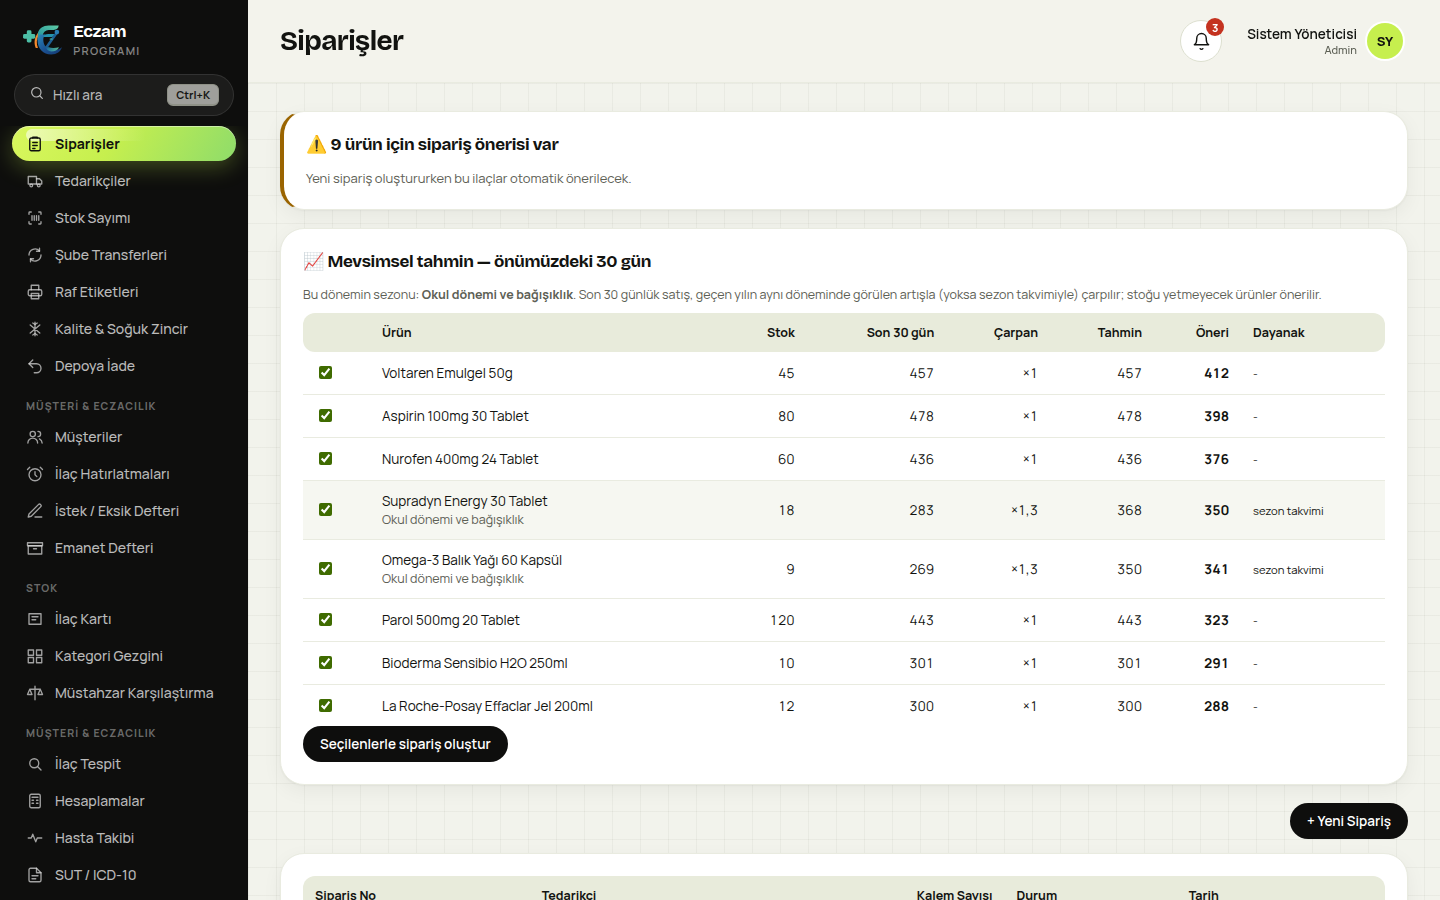
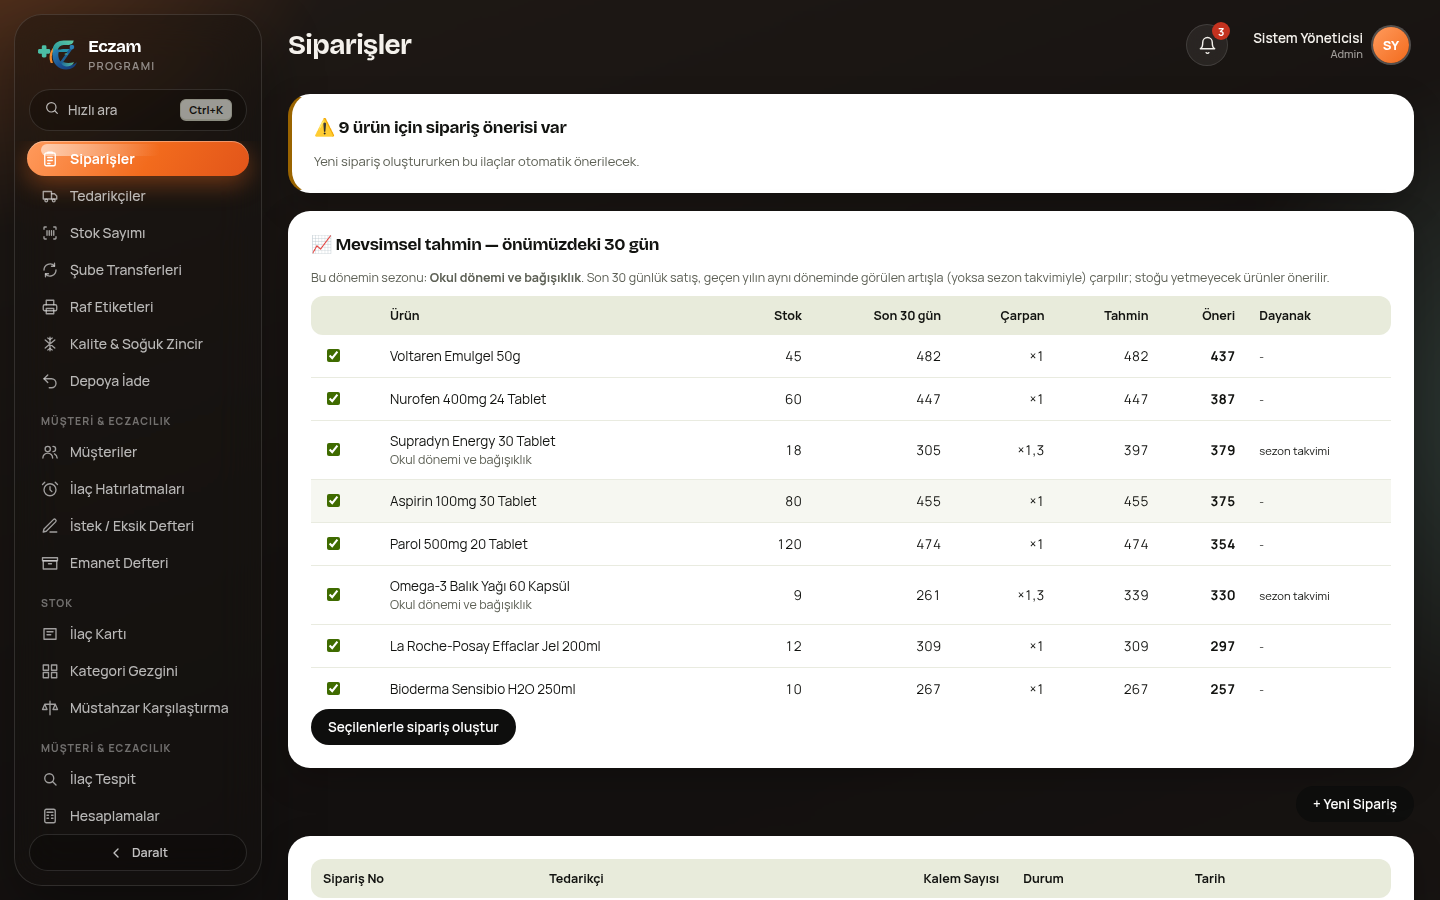
Uygulama geneli Cam tasarım (yan menü dahil) (#38)

diff --git a/web/public/css/cam.css b/web/public/css/cam.css
@@ -1,0 +1,162 @@
+/* "Cam" tasarim (varsayilan): koyu, bulanik zemin; buzlu cam yan menu ve ust cubuk; acik kartlar; turuncu vurgu.
+   html[data-tasarim="cam"] ile acilir; Gorunum Ayarlari'ndan "Klasik" secilince eski gorunume donulur.
+   Kartlar ve pencereler kendi rengini tasir; zemin uzerindeki yazilar acik renk olur. */
+:root[data-tasarim="cam"] {
+  --cam-zemin: #1b1714;
+  --cam-yazi: #f4f1ec;
+  --cam-soluk: rgba(244, 241, 236, 0.62);
+  --cam: rgba(255, 255, 255, 0.07);
+  --cam-hover: rgba(255, 255, 255, 0.12);
+  --cam-kenar: rgba(255, 255, 255, 0.12);
+  --turuncu: #f26b1d;
+  --turuncu-acik: #ff9a5c;
+  --focus-ring: 0 0 0 3px rgba(242, 107, 29, 0.45);
+  --radius-lg: 22px;
+  --shadow-md: 0 10px 30px rgba(0, 0, 0, 0.18);
+  --shadow-lg: 0 24px 60px rgba(0, 0, 0, 0.38), 0 6px 16px rgba(0, 0, 0, 0.2);
+}
+
+/* ---- Zemin: sabit, yavasca kayan sicak isiklar ---- */
+:root[data-tasarim="cam"] body { background: var(--cam-zemin); }
+:root[data-tasarim="cam"] body::before {
+  content: ''; position: fixed; inset: -20vmax; z-index: -1; pointer-events: none;
+  background:
+    radial-gradient(38vmax 38vmax at 12% 8%, rgba(160, 82, 36, 0.62), transparent 70%),
+    radial-gradient(34vmax 34vmax at 88% 46%, rgba(58, 78, 72, 0.7), transparent 70%),
+    radial-gradient(30vmax 30vmax at 48% 108%, rgba(120, 62, 28, 0.55), transparent 70%),
+    linear-gradient(160deg, #241d18, #141110 60%, #1b1714);
+  filter: blur(10px);
+  animation: cam-zemin 26s ease-in-out infinite alternate;
+}
+@keyframes cam-zemin { to { transform: translate3d(4vmax, 3vmax, 0) scale(1.06); } }
+:root[data-tasarim="cam"] .app-shell { gap: 0; }
+:root[data-tasarim="cam"] .main { background: transparent; }
+:root[data-tasarim="cam"] .content { background-image: none; color: var(--cam-yazi); padding: 18px 26px 40px; }
+
+/* Acik yuzeyler kendi yazi rengini tasir (zemindeki acik yazi icerilere sizmasin) */
+:root[data-tasarim="cam"] :is(.card, .stat-tile, .modal, .kullanici-menu, .zil-panel, .duyuru-pano, .oneri-ozet, .gun-sonu > div,
+  table, .toast, .cp-kutu, .cp-panel, .empty-state.card, .pos-layout > *, .sekme, .segment-cip, .secim-kart, .bekleyen-liste, .tablo-kaydir) { color: var(--text); }
+:root[data-tasarim="cam"] .card {
+  border: 1px solid rgba(255, 255, 255, 0.5); border-radius: var(--radius-lg);
+  box-shadow: 0 12px 34px rgba(0, 0, 0, 0.22);
+  animation: cam-gir 420ms cubic-bezier(0.2, 0.8, 0.2, 1) both;
+}
+:root[data-tasarim="cam"][data-theme="dark"] .card { border-color: rgba(255, 255, 255, 0.08); background: rgba(27, 28, 25, 0.82); backdrop-filter: blur(18px); -webkit-backdrop-filter: blur(18px); }
+:root[data-tasarim="cam"] .content > *:nth-child(2) { animation-delay: 50ms; }
+:root[data-tasarim="cam"] .content > *:nth-child(3) { animation-delay: 100ms; }
+:root[data-tasarim="cam"] .content > *:nth-child(4) { animation-delay: 150ms; }
+:root[data-tasarim="cam"] .content > *:nth-child(n + 5) { animation-delay: 200ms; }
+@keyframes cam-gir { from { opacity: 0; transform: translateY(10px); } }
+:root[data-tasarim="cam"] .stat-tile { transition: transform 220ms cubic-bezier(0.2, 0.8, 0.2, 1), box-shadow 220ms; }
+:root[data-tasarim="cam"] .stat-tile:hover { transform: translateY(-4px); box-shadow: 0 16px 36px rgba(0, 0, 0, 0.26); }
+
+/* Zemin uzerindeki yardimci yazilar */
+:root[data-tasarim="cam"] .content > :is(p, h2, h3, h4, label, small, .form-ipucu),
+:root[data-tasarim="cam"] .content > :not(.card) > :is(.form-ipucu, small, label) { color: var(--cam-soluk); }
+:root[data-tasarim="cam"] .content > .empty-state { color: var(--cam-soluk); }
+:root[data-tasarim="cam"] .content a:not(.card a):not([class]) { color: var(--turuncu-acik); }
+
+/* ---- Yan menu: buzlu cam, yuvarlak, kenardan bosluklu ---- */
+:root[data-tasarim="cam"] .sidebar {
+  margin: 14px 0 14px 14px; height: calc(100vh - 28px); top: 14px; border-radius: 28px;
+  background: rgba(20, 17, 15, 0.42); border: 1px solid var(--cam-kenar);
+  backdrop-filter: blur(22px) saturate(1.15); -webkit-backdrop-filter: blur(22px) saturate(1.15);
+  box-shadow: 0 24px 60px rgba(0, 0, 0, 0.35); overflow: hidden;
+  transition: width 320ms cubic-bezier(0.2, 0.8, 0.2, 1);
+}
+:root[data-tasarim="cam"] .sidebar nav { scrollbar-color: rgba(255, 255, 255, 0.18) transparent; }
+:root[data-tasarim="cam"] .cp-ac { background: rgba(0, 0, 0, 0.25); border-color: var(--cam-kenar); }
+:root[data-tasarim="cam"] .sidebar a { color: rgba(255, 255, 255, 0.7); transition: background 160ms, color 160ms, transform 160ms; }
+:root[data-tasarim="cam"] .sidebar a:hover { background: var(--cam-hover); color: #fff; transform: translateX(2px); }
+:root[data-tasarim="cam"] .sidebar a.active { background: var(--turuncu); color: #fff; }
+:root[data-tasarim="cam"] .sidebar a.active svg { color: #fff; }
+@media (min-width: 801px) {
+  :root[data-tasarim="cam"] .nav-gosterge {
+    background: linear-gradient(120deg, #ff9a5c 0%, #f26b1d 55%, #e2551a 100%);
+    box-shadow: 0 8px 24px rgba(242, 107, 29, 0.4), inset 0 1px 0 rgba(255, 255, 255, 0.35);
+  }
+  :root[data-tasarim="cam"] .sidebar a.active, :root[data-tasarim="cam"] .sidebar a.active:hover { background: transparent; color: #fff; transform: none; }
+  :root[data-tasarim="cam"] .sidebar a.active svg { color: #fff; }
+}
+
+/* Daraltma dugmesi (yalnizca cam tasarimda, masaustunde) */
+.kenar-btn { display: none; }
+@media (min-width: 801px) {
+  :root[data-tasarim="cam"] .kenar-btn {
+    display: flex; align-items: center; justify-content: center; gap: 8px; margin: 8px 14px 14px; padding: 9px 12px;
+    border-radius: 999px; border: 1px solid var(--cam-kenar); background: rgba(0, 0, 0, 0.22); color: rgba(255, 255, 255, 0.75);
+    font: inherit; font-size: 12.5px; font-weight: 600; cursor: pointer; box-shadow: none; width: auto;
+  }
+  :root[data-tasarim="cam"] .kenar-btn:hover { background: var(--cam-hover); color: #fff; }
+  :root[data-tasarim="cam"] .kenar-btn svg { width: 16px; height: 16px; transition: transform 300ms; }
+
+  /* Dar menu: yalnizca simgeler (referanstaki gibi), ustune gelince ad gorunur */
+  :root[data-tasarim="cam"][data-kenar="dar"] .sidebar { width: 78px; }
+  :root[data-tasarim="cam"][data-kenar="dar"] .sidebar-marka { justify-content: center; padding: 20px 0 14px; }
+  :root[data-tasarim="cam"][data-kenar="dar"] .sidebar-marka h2,
+  :root[data-tasarim="cam"][data-kenar="dar"] .nav-grup,
+  :root[data-tasarim="cam"][data-kenar="dar"] .sidebar a span,
+  :root[data-tasarim="cam"][data-kenar="dar"] .cp-ac > :not(#cp-ikon),
+  :root[data-tasarim="cam"][data-kenar="dar"] .kenar-btn span { display: none; }
+  :root[data-tasarim="cam"][data-kenar="dar"] .cp-ac { margin: 0 14px 10px; padding: 10px; justify-content: center; font-size: 0; }
+  :root[data-tasarim="cam"][data-kenar="dar"] .sidebar nav { padding: 4px 10px 12px; }
+  :root[data-tasarim="cam"][data-kenar="dar"] .sidebar a { justify-content: center; padding: 11px 0; }
+  :root[data-tasarim="cam"][data-kenar="dar"] .sidebar a svg { width: 20px; height: 20px; }
+  :root[data-tasarim="cam"][data-kenar="dar"] .nav-gosterge { left: 10px; right: 10px; }
+  :root[data-tasarim="cam"][data-kenar="dar"] .kenar-btn { margin: 8px 14px 14px; padding: 10px; }
+  :root[data-tasarim="cam"][data-kenar="dar"] .kenar-btn svg { transform: rotate(180deg); }
+}
+
+/* ---- Ust cubuk: seffaf, acik yazili ---- */
+:root[data-tasarim="cam"] .topbar { background: transparent; border-bottom: 0; backdrop-filter: none; padding: 22px 26px 8px; }
+:root[data-tasarim="cam"] .topbar h1 { color: var(--cam-yazi); letter-spacing: -0.02em; }
+:root[data-tasarim="cam"] .topbar .ikon-btn { background: var(--cam); color: var(--cam-yazi); border-color: var(--cam-kenar); backdrop-filter: blur(12px); -webkit-backdrop-filter: blur(12px); }
+:root[data-tasarim="cam"] .topbar .ikon-btn:hover { background: var(--cam-hover); }
+:root[data-tasarim="cam"] .kullanici-cip { color: var(--cam-yazi); }
+:root[data-tasarim="cam"] .kullanici-cip .rol { color: var(--cam-soluk); }
+:root[data-tasarim="cam"] .kullanici-cip:hover { background: var(--cam); border-color: var(--cam-kenar); }
+:root[data-tasarim="cam"] .avatar { background: linear-gradient(135deg, var(--turuncu-acik), var(--turuncu)); color: #fff; box-shadow: 0 0 0 2px rgba(255, 255, 255, 0.25); }
+
+/* ---- Pencereler ve aciklir paneller ---- */
+:root[data-tasarim="cam"] .modal-backdrop { background: rgba(12, 10, 9, 0.55); backdrop-filter: blur(6px); -webkit-backdrop-filter: blur(6px); }
+:root[data-tasarim="cam"] .modal { border-radius: 24px; animation: cam-pencere 260ms cubic-bezier(0.2, 0.8, 0.2, 1) both; }
+@keyframes cam-pencere { from { opacity: 0; transform: translateY(12px) scale(0.98); } }
+
+/* ---- Gosterge (ana sayfa) cam tasarimda zeminle butunlesir ---- */
+:root[data-tasarim="cam"] .gst { background: transparent; padding: 0; min-height: 0; overflow: visible; border-radius: 0; }
+:root[data-tasarim="cam"] .gst-zemin { display: none; }
+
+/* ---- Telefon: cekmece menu ve alt cubuk camdan ---- */
+@media (max-width: 800px) {
+  :root[data-tasarim="cam"] .sidebar { margin: 0; top: 0; height: auto; border-radius: 0 26px 26px 0; background: rgba(20, 17, 15, 0.86); }
+  :root[data-tasarim="cam"] .topbar { padding: 12px 14px 6px; }
+  :root[data-tasarim="cam"] .content { padding: 10px 12px 104px; }
+  :root[data-tasarim="cam"] .alt-cubuk { background: rgba(20, 17, 15, 0.72); border: 1px solid var(--cam-kenar); backdrop-filter: blur(18px); -webkit-backdrop-filter: blur(18px); }
+  :root[data-tasarim="cam"] .alt-cubuk a, :root[data-tasarim="cam"] .alt-cubuk button { background: rgba(255, 255, 255, 0.1); }
+  :root[data-tasarim="cam"] .alt-cubuk a.aktif { background: var(--turuncu); color: #fff; }
+}
+
+@media (prefers-reduced-motion: reduce) {
+  :root[data-tasarim="cam"] body::before, :root[data-tasarim="cam"] .card, :root[data-tasarim="cam"] .modal { animation: none; }
+}
+@media print {
+  :root[data-tasarim="cam"] body { background: #fff; }
+  :root[data-tasarim="cam"] body::before { display: none; }
+}
+
+/* ---- Giris ekrani ---- */
+:root[data-tasarim="cam"] .login-wrap { background: transparent; }
+:root[data-tasarim="cam"] .login-card {
+  border: 1px solid rgba(255, 255, 255, 0.5); border-radius: 28px; box-shadow: 0 30px 80px rgba(0, 0, 0, 0.45);
+  animation: cam-pencere 420ms cubic-bezier(0.2, 0.8, 0.2, 1) both;
+}
+:root[data-tasarim="cam"][data-theme="dark"] .login-card { border-color: rgba(255, 255, 255, 0.1); background: rgba(27, 28, 25, 0.85); backdrop-filter: blur(20px); -webkit-backdrop-filter: blur(20px); }
+
+/* Kart disinda kalan bos durum yazilari ve etiketler zeminde okunur kalsin */
+:root[data-tasarim="cam"] .content .empty-state,
+:root[data-tasarim="cam"] .content label { color: var(--cam-soluk); }
+:root[data-tasarim="cam"] :is(.card, .modal, .stat-tile, .pos-layout > *) :is(.empty-state, label) { color: var(--text-muted); }
+:root[data-tasarim="cam"] :is(.card, .modal, .pos-layout > *) label { color: var(--text); }
+
+/* Genis tablolar kartin icinde yatay kaysin (kart disina tasmasin) */
+:root[data-tasarim="cam"] .card:has(> table) { overflow-x: auto; }

diff --git a/web/public/js/sistemAraclari.js b/web/public/js/sistemAraclari.js
@@ -1,7 +1,7 @@
 // Kullanim araclari: gorunum ayarlari (tema, yazi boyutu), ekran kilidi,
 // baglanti koptu bandi ve klavye kisayollari yardim penceresi.
 const SistemAraclari = (() => {
-  const ANAHTAR = { tema: 'eczanem-tema', yazi: 'eczanem-yazi', kilit: 'eczanem-kilit-dk', kilitli: 'eczanem-kilitli' };
+  const ANAHTAR = { tema: 'eczanem-tema', yazi: 'eczanem-yazi', kilit: 'eczanem-kilit-dk', kilitli: 'eczanem-kilitli', tasarim: 'eczanem-tasarim', kenar: 'eczanem-kenar' };
   const oku = (k, v) => {
     try {
       return localStorage.getItem(k) ?? v;
@@ -26,6 +26,29 @@ const SistemAraclari = (() => {
   }
   if (sistemKoyu && sistemKoyu.addEventListener) sistemKoyu.addEventListener('change', temaUygula);
 
+  // Tasarim: cam (varsayilan) / klasik; cam tasarimda yan menu daraltilabilir
+  function tasarimUygula() {
+    if (oku(ANAHTAR.tasarim, 'cam') === 'klasik') document.documentElement.removeAttribute('data-tasarim');
+    else document.documentElement.setAttribute('data-tasarim', 'cam');
+    if (oku(ANAHTAR.kenar, 'genis') === 'dar') document.documentElement.setAttribute('data-kenar', 'dar');
+    else document.documentElement.removeAttribute('data-kenar');
+    const btn = document.getElementById('kenar-btn');
+    if (btn) {
+      const dar = oku(ANAHTAR.kenar, 'genis') === 'dar';
+      btn.setAttribute('aria-label', dar ? 'Menüyü genişlet' : 'Menüyü daralt');
+      btn.setAttribute('aria-expanded', String(!dar));
+      const yazi = btn.querySelector('span');
+      if (yazi) yazi.textContent = dar ? 'Genişlet' : 'Daralt';
+    }
+  }
+  function kenarDegistir() {
+    yaz(ANAHTAR.kenar, oku(ANAHTAR.kenar, 'genis') === 'dar' ? 'genis' : 'dar');
+    tasarimUygula();
+    // Kayan secim hapinin yeri yeni genislige gore yeniden hesaplansin
+    window.dispatchEvent(new Event('resize'));
+    setTimeout(() => window.dispatchEvent(new Event('resize')), 340);
+  }
+
   function yaziUygula() {
     const boyut = oku(ANAHTAR.yazi, 'normal');
     if (boyut === 'normal') document.documentElement.removeAttribute('data-yazi');
@@ -34,6 +57,7 @@ const SistemAraclari = (() => {
 
   function gorunumAc() {
     const tema = oku(ANAHTAR.tema, 'light');
+    const tasarim = oku(ANAHTAR.tasarim, 'cam');
     const yazi = oku(ANAHTAR.yazi, 'normal');
     const kilit = oku(ANAHTAR.kilit, '15');
     const secenek = (ad, deger, secili, etiket) =>
@@ -41,7 +65,9 @@ const SistemAraclari = (() => {
     const modal = UI.openModal(`
       <h3>Görünüm Ayarları</h3>
       <form id="gorunum-form">
-        <label>Tema</label>
+        <label>Tasarım</label>
+        <div class="secim-grup">${secenek('tasarim', 'cam', tasarim, '✦ Cam (yeni)')}${secenek('tasarim', 'klasik', tasarim, '▦ Klasik')}</div>
+        <label style="margin-top:14px">Tema</label>
         <div class="secim-grup">${secenek('tema', 'light', tema, '☀ Aydınlık')}${secenek('tema', 'dark', tema, '🌙 Karanlık')}${secenek('tema', 'sistem', tema, '💻 Sistem')}</div>
         <label style="margin-top:14px">Yazı boyutu</label>
         <div class="secim-grup">${secenek('yazi', 'kucuk', yazi, '<small>Aa</small> Küçük')}${secenek('yazi', 'normal', yazi, 'Aa Normal')}${secenek('yazi', 'buyuk', yazi, '<b>Aa</b> Büyük')}</div>
@@ -57,6 +83,8 @@ const SistemAraclari = (() => {
     const form = modal.querySelector('#gorunum-form');
     form.addEventListener('change', () => {
       yaz(ANAHTAR.tema, form.tema.value);
+      yaz(ANAHTAR.tasarim, form.tasarim.value);
+      tasarimUygula();
       yaz(ANAHTAR.yazi, form.yazi.value);
       yaz(ANAHTAR.kilit, form.kilit.value);
       temaUygula();
@@ -197,6 +225,9 @@ const SistemAraclari = (() => {
     kullanici = user;
     temaUygula();
     yaziUygula();
+    tasarimUygula();
+    const kenarBtn = document.getElementById('kenar-btn');
+    if (kenarBtn) kenarBtn.addEventListener('click', kenarDegistir);
     window.addEventListener('eczanem:baglanti', (e) => baglantiDurumu(e.detail.var));
     window.addEventListener('offline', () => baglantiDurumu(false));
     ['pointerdown', 'keydown', 'wheel', 'touchstart'].forEach((t) => document.addEventListener(t, () => !kilitliMi() && bostaSayaciniKur(), { passive: true }));
@@ -216,5 +247,5 @@ const SistemAraclari = (() => {
     else bostaSayaciniKur();
   }
 
-  return { baslat, gorunumAc, kilitle, kisayollariGoster, temaUygula };
+  return { baslat, gorunumAc, kilitle, kisayollariGoster, temaUygula, tasarimUygula, kenarDegistir };
 })();

diff --git a/web/public/index.html b/web/public/index.html
@@ -7,6 +7,7 @@
   <link rel="icon" type="image/svg+xml" href="favicon.svg" />
   <link rel="stylesheet" href="css/style.css" />
   <link rel="stylesheet" href="css/gosterge.css" />
+  <link rel="stylesheet" href="css/cam.css" />
   <script>
     (function () {
       try {
@@ -15,6 +16,9 @@
         if (tema === 'dark' || (tema === 'sistem' && sistemKoyu)) {
           document.documentElement.setAttribute('data-theme', 'dark');
         }
+        // Cam tasarim varsayilan; Gorunum Ayarlari'ndan Klasik secilebilir
+        if (localStorage.getItem('eczanem-tasarim') !== 'klasik') document.documentElement.setAttribute('data-tasarim', 'cam');
+        if (localStorage.getItem('eczanem-kenar') === 'dar') document.documentElement.setAttribute('data-kenar', 'dar');
         var yazi = localStorage.getItem('eczanem-yazi');
         if (yazi === 'kucuk' || yazi === 'buyuk') document.documentElement.setAttribute('data-yazi', yazi);
       } catch (e) {}
@@ -27,6 +31,7 @@
       <div class="sidebar-marka"><span id="logo-yer"></span><h2>Eczam<small>Programı</small></h2></div>
       <button id="cp-ac-btn" class="cp-ac" type="button"><span id="cp-ikon"></span>Hızlı ara <kbd>Ctrl+K</kbd></button>
       <nav id="nav"></nav>
+      <button id="kenar-btn" class="kenar-btn" type="button" aria-label="Menüyü daralt" title="Menüyü daralt / genişlet"><svg viewBox="0 0 24 24" fill="none" stroke="currentColor" stroke-width="2" stroke-linecap="round" stroke-linejoin="round" aria-hidden="true"><path d="M15 18l-6-6 6-6"/></svg><span>Daralt</span></button>
     </aside>
     <div class="main">
       <div class="topbar">

diff --git a/web/public/login.html b/web/public/login.html
@@ -6,6 +6,7 @@
   <title>Eczam Programı - Giriş</title>
   <link rel="icon" type="image/svg+xml" href="favicon.svg" />
   <link rel="stylesheet" href="css/style.css" />
+  <link rel="stylesheet" href="css/cam.css" />
   <script>
     (function () {
       try {
@@ -14,6 +15,7 @@
         if (tema === 'dark' || (tema === 'sistem' && sistemKoyu)) {
           document.documentElement.setAttribute('data-theme', 'dark');
         }
+        if (localStorage.getItem('eczanem-tasarim') !== 'klasik') document.documentElement.setAttribute('data-tasarim', 'cam');
         var yazi = localStorage.getItem('eczanem-yazi');
         if (yazi === 'kucuk' || yazi === 'buyuk') document.documentElement.setAttribute('data-yazi', yazi);
       } catch (e) {}

diff --git a/web/public/js/app.js b/web/public/js/app.js
@@ -108,7 +108,7 @@ function navOlustur() {
     .map((item) => {
       const baslik = item.grup && item.grup !== sonGrup ? `<div class="nav-grup">${item.grup}</div>` : '';
       sonGrup = item.grup;
-      return `${baslik}<a href="#${item.key}" data-key="${item.key}">${Ikon.svg(item.key)}<span>${item.label}</span></a>`;
+      return `${baslik}<a href="#${item.key}" data-key="${item.key}" title="${item.label}">${Ikon.svg(item.key)}<span>${item.label}</span></a>`;
     })
     .join('');
 }
